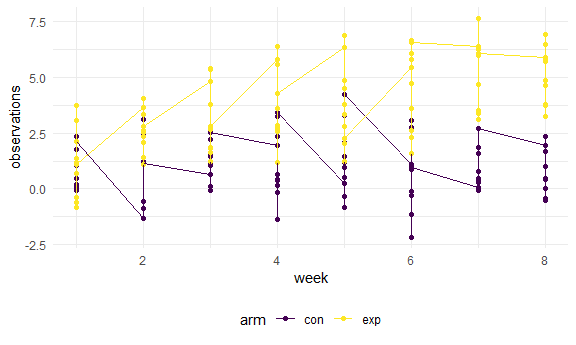
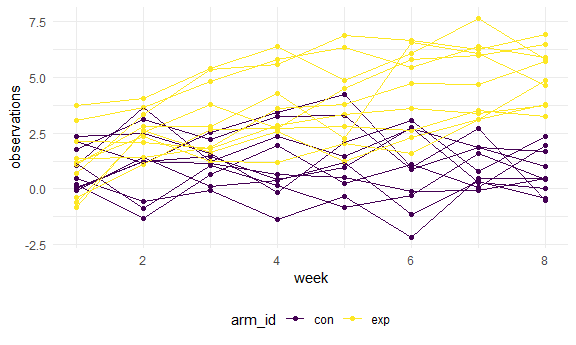
Fixed tiny problem

diff --git a/p8105_hw5_hq2182.md b/p8105_hw5_hq2182.md
@@ -154,9 +154,11 @@ and comment on differences between groups.
 
 ``` r
 data_df %>% 
-  group_by(id, arm) %>% 
-  ggplot(aes(x = week, y = observations, color = arm)) +
-  geom_point() + geom_line()  
+  unite(arm_id, c(arm, id), sep = " ", remove = FALSE) %>% 
+  select(-id) %>% 
+  ggplot(aes(x = week, y = observations, color = arm_id)) +
+  geom_point(aes(group = arm_id, color = arm)) + 
+  geom_line(aes(group = arm_id, color = arm))  
 ```
 
 <img src="p8105_hw5_hq2182_files/figure-gfm/unnamed-chunk-8-1.png" width="90%" />
@@ -191,6 +193,7 @@ sim_est_p = function(n = 30, mu = 0, sigma = 5) {
   )
 }
 
+set.seed(5000)
 sim_result = 
   tibble(true_mean = c(0:6)) %>% 
   mutate(
